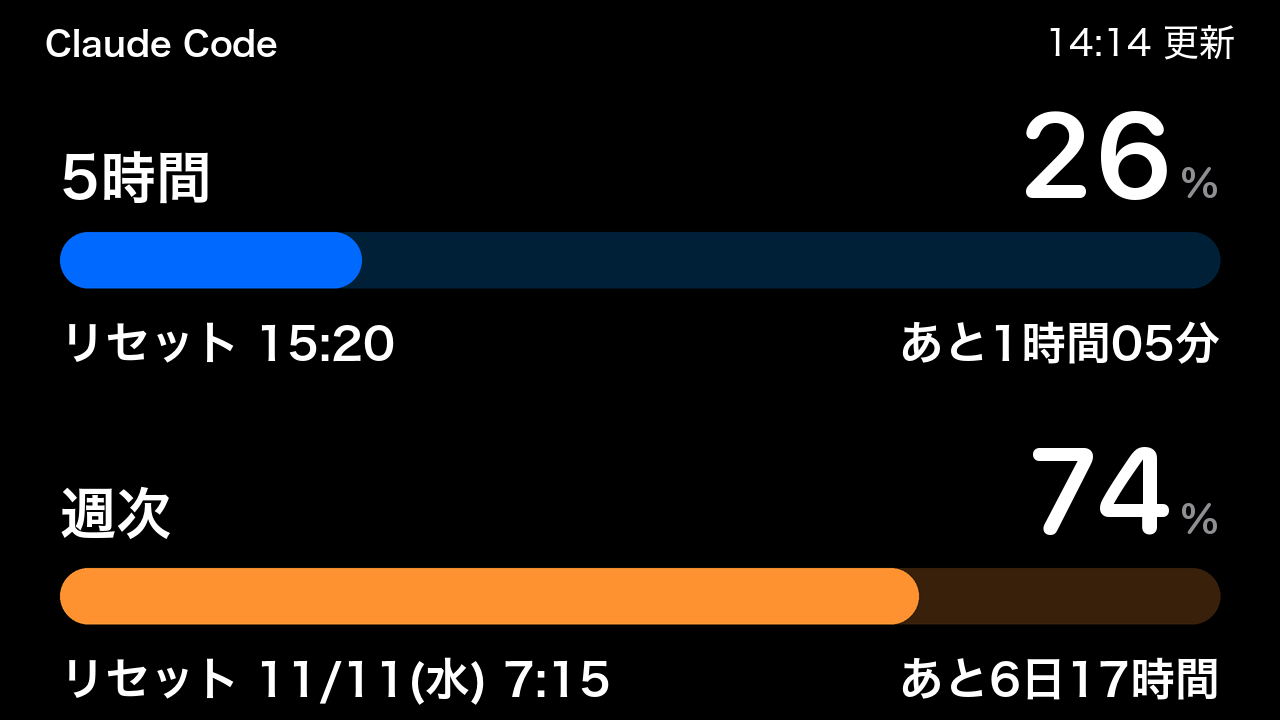
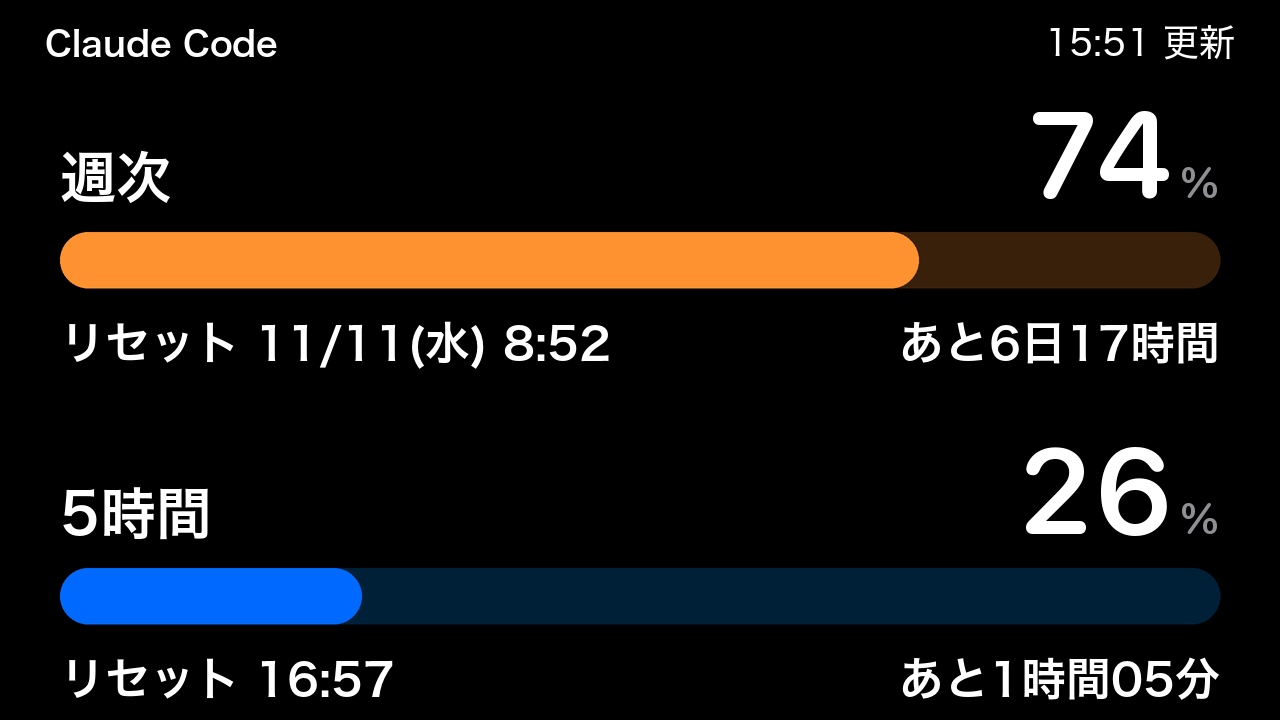
style(pace): 上下の段を入れ替え、上を週次、下を 5 時間にする
pace.ORDER で段に出す枠を決める。parse_usage の並びは変えない（ほかの画面と
5 時間の枠の見張りが使うため）。ユーザーの指示。

diff --git a/tests/test_pace.py b/tests/test_pace.py
@@ -19,6 +19,9 @@ def near(pixel, color, tolerance=12):
     return all(abs(a - b) <= tolerance for a, b in zip(pixel, color))
 
 
+SESSION, WEEKLY = pace.ORDER.index(0), pace.ORDER.index(1)  # 5時間・週次を出す段（0 が上）
+
+
 def bar_row(index):
     """棒の縦の中ほど（ピクセル）。"""
     return round(pace.ROWS[index] + sum(pace.BAR) / 2)
@@ -29,11 +32,20 @@ class PaceTest(unittest.TestCase):
         image = pace.render(snapshot(), NOW, size=SIZE)
         self.assertEqual(image.size, SIZE)
         left, right = pace.MARGIN, SIZE[0] - pace.MARGIN
-        y = bar_row(0)
+        y = bar_row(SESSION)
         blue = gauge.layout_for(SIZE).blue
         self.assertTrue(near(image.getpixel((round(left + (right - left) * 0.20), y)), blue))  # 26% の手前は塗る
         self.assertFalse(near(image.getpixel((round(left + (right - left) * 0.40), y)), blue))  # 26% より先は地
-        self.assertTrue(near(image.getpixel((round(left + (right - left) * 0.5), bar_row(1))), gauge.ORANGE))  # 74%
+        self.assertTrue(near(image.getpixel((round(left + (right - left) * 0.5), bar_row(WEEKLY))), gauge.ORANGE))  # 74%
+
+    def test_weekly_is_on_top_and_session_below(self):
+        # 2026-11-04、「上が週次、下が 5時間にしたい」（ユーザーの指示）
+        self.assertEqual((WEEKLY, SESSION), (0, 1))
+        image = pace.render(snapshot(), NOW, size=(480, 320))
+        s = 320 / pace.HEIGHT
+        x = round((pace.MARGIN + (1280 - 2 * pace.MARGIN) * 0.5) * 480 / 1280)  # 26% より先、74% より手前
+        self.assertTrue(near(image.getpixel((x, round(bar_row(0) * s))), gauge.ORANGE))  # 上の段は週次の 74%
+        self.assertFalse(near(image.getpixel((x, round(bar_row(1) * s))), gauge.ORANGE))  # 下の段は 5時間の 26%
 
     def test_no_elapsed_mark_or_text(self):
         # 2026-11-03、「時間経過の表記と縦棒は不要」（ユーザーの指示）。棒の上にも名前の右にも白い字・線を出さない
@@ -102,7 +114,8 @@ class PaceTest(unittest.TestCase):
                          Meter("週次", 74.0, NOW + timedelta(days=6, hours=23, minutes=59))), NOW)
         image = pace.render(long, NOW, size=(480, 320))
         s = 320 / pace.HEIGHT
-        top, bottom = round((pace.ROWS[1] + pace.LINE[0] - pace.LINE[1] * 0.8) * s), round((pace.ROWS[1] + pace.LINE[0]) * s)
+        row = pace.ROWS[WEEKLY]
+        top, bottom = round((row + pace.LINE[0] - pace.LINE[1] * 0.8) * s), round((row + pace.LINE[0]) * s)
         inked = [any(min(image.getpixel((x, y))) > 120 for y in range(top, bottom)) for x in range(480)]
         runs, gap = [], 0
         for x in range(round(pace.MARGIN * s), 480 - round(pace.MARGIN * s)):
@@ -139,7 +152,7 @@ class PaceTest(unittest.TestCase):
         s = 320 / pace.HEIGHT
         with_mark = pace.render(snapshot(), NOW, size=(480, 320), icons=icons)
         plain = pace.render(snapshot(), NOW, size=(480, 320))
-        baseline = round((pace.ROWS[0] + pace.LINE[0]) * s)
+        baseline = round((pace.ROWS[SESSION] + pace.LINE[0]) * s)  # 5時間の段（「リセット済み」も 5時間で確かめる）
         row = range(round(pace.MARGIN * s), round(pace.MARGIN * s) + 14)
         band = range(baseline - 14, baseline)
         self.assertTrue(any(near(with_mark.getpixel((x, y)), (0, 255, 0), 40) for x in row for y in band))

diff --git a/claude_usage_display/pace.py b/claude_usage_display/pace.py
@@ -3,7 +3,7 @@
 ユーザーが Fable を使っていないので 2 項目にし、見せ方を見本の 3 案から選んだ（「案 2」。``docs/handover.md`` §4-24）。
 
 - 上下 2 段に、Apple の Gauges の直線の容量ゲージ（値の位置まで塗る）を太い横棒で置く。2 本は同じ幅・同じ左端なので、
-  棒の端の位置で 2 つを比べられる
+  棒の端の位置で 2 つを比べられる。上が週次、下が 5時間（2026-11-04 ユーザーの指示で入れ替えた）
 - 名前は棒の真上の左、数字は右上に（% は小さく灰色）。名前と数字は同じ基準線に載せる。下の行は、左にリセットの日時、
   右に残り時間
 - 名前の pace は、最初は棒の上に枠の時間の経過の目印（と名前の右に「経過 N%」）を出していたことから。同じ日に、
@@ -31,6 +31,7 @@ MARGIN = 60          # 左右の余白
 # 5時間と週次の間を広げた（約 15→27 px（3.5 インチ）。同日、ユーザーの指示「5時間と週次を隙間を空けたい」）。
 # 1 段目を 84→76 に上げ、2 段目を 398→412 に下げ、下の行を 290→284 に上げて画面の下に収めた
 ROWS = (76, 412)     # 2 段の上端
+ORDER = (1, 0)       # 上の段から順に、どの枠を出すか（snapshot.meters の番号。0 が 5時間、1 が週次）
 # 名前は数字と同じ基準線に載せ、棒の真上に置く（2026-11-04、ユーザーの指示「5時間・週次のテキストをバーの真上に」。
 # 見本の 2 案から選んだ。70→122。3.5 インチで、名前と棒の間は 35→12 px で、棒と下の行の間（14〜15 px）とほぼ同じ）
 NAME = (122, 56)     # 名前の基準線（段の上端から）・大きさ
@@ -56,13 +57,14 @@ def _reset_text(when: str) -> str:
 def render(snapshot: Snapshot | None, now: datetime, status: str | None = None,
            labels: tuple[str, ...] = ("5時間", "週次", "Fable週次"),
            size: tuple[int, int] = (1280, 720), icons: dict[str, Image.Image] | None = None) -> Image.Image:
-    """``snapshot`` の先頭の 2 つ（5時間・週次）を描く。引数はゲージ型の画面（``gauge.render``）と同じ。"""
+    """``snapshot`` の先頭の 2 つ（5時間・週次）を、``ORDER`` の順に描く。引数はゲージ型の画面（``gauge.render``）と同じ。"""
     layout = gauge.layout_for(size)
     s = layout.height / HEIGHT
     sized = lambda value: round(value * s)  # noqa: E731
     width = layout.width
     left, right = MARGIN * s, width - MARGIN * s
-    meters = snapshot.meters[:2] if snapshot else tuple(Meter(label, None, None) for label in labels[:2])
+    source = snapshot.meters if snapshot else tuple(Meter(label, None, None) for label in labels)
+    meters = tuple(source[i] for i in ORDER)
 
     shapes = gauge._Shapes(layout)
     for meter, top in zip(meters, ROWS):

diff --git a/docs/handover.md b/docs/handover.md
@@ -547,6 +547,13 @@ scripts/uninstall-launch-agent.sh                                 # 自動起動
 - **ユーザーの指示**: 「claude モニター: 5時間・週次のテキストをバーの真上に移動してみて」
 - **見本**: いまの値で、3.5 インチの画面を 3 つ並べて見せた（いま・案 A・案 B。名前と棒の間は 3.5 インチの画素で測った）。いまは名前の上端を数字の上端にそろえていて、棒との間は 35〜36 px。案 A は名前を数字と同じ基準線に載せ、棒との間は 12〜13 px（棒と下の行の間の 14〜15 px とほぼ同じ）。案 B はさらに寄せて 6 px。**ユーザーが案 A（推奨）を選んだ**
 - **入れたこと**: `pace.NAME` の基準線を 70→122（5.2 インチの寸法。数字の `NUMBER` と同じ）。数字・棒・下の行は動かしていない。テスト `test_name_sits_right_above_the_bar`（数字と同じ基準線であることと、3.5 インチで名前と棒の間・棒と下の行の間の差が 3 px 以内であること）。`test_no_line_between_the_rows` の調べる範囲の下端は、名前と数字の上端の高いほうにした（名前を下げると、2 段目の数字の方が上になるため）。README の説明の行と画像も直した
+- **実機での確かめ**: 5 時間の枠を取得できない間なので、ユーザーの指示「5時間に適当な値を入れたもので実際のモニターで確認したい」で、常駐を止め、5時間を仮の値（42%・2 時間 18 分後にリセット）、週次を API を 1 回呼んだ実際の値にした画面を、3.5 インチの 1 台目に 30 秒ごとに送った（使い捨ての台本。終わると常駐を登録し直す）。ユーザーが見て了承した
+
+### 4-30. 利用枠の画面の上下を入れ替え、上を週次、下を 5 時間にした（2026-11-04）
+
+- **ユーザーの指示**: 「claude モニターを上が週次、下が 5時間にしたい」
+- **入れたこと**: `pace.ORDER = (1, 0)`（上の段から順に、`snapshot.meters` の何番目を出すか）。`usage.parse_usage` が返す並び（5時間・週次・Fable週次）は変えていない（ゲージ型・横棒の画面と、常駐の 5 時間の枠の見張り（`Runner._watch_session`）が、この並びを使うため）。段の位置・大きさは変えていない
+- テスト `test_weekly_is_on_top_and_session_below` を足し、段の番号に頼っていたテスト（棒の塗り・3.5 インチの下の行の隙間・リセットの記号）は `ORDER` から 5時間・週次の段を引く形に直した。README の説明の行と画像も直した
 
 ## 5. 残っている作業（上から順に）
 
